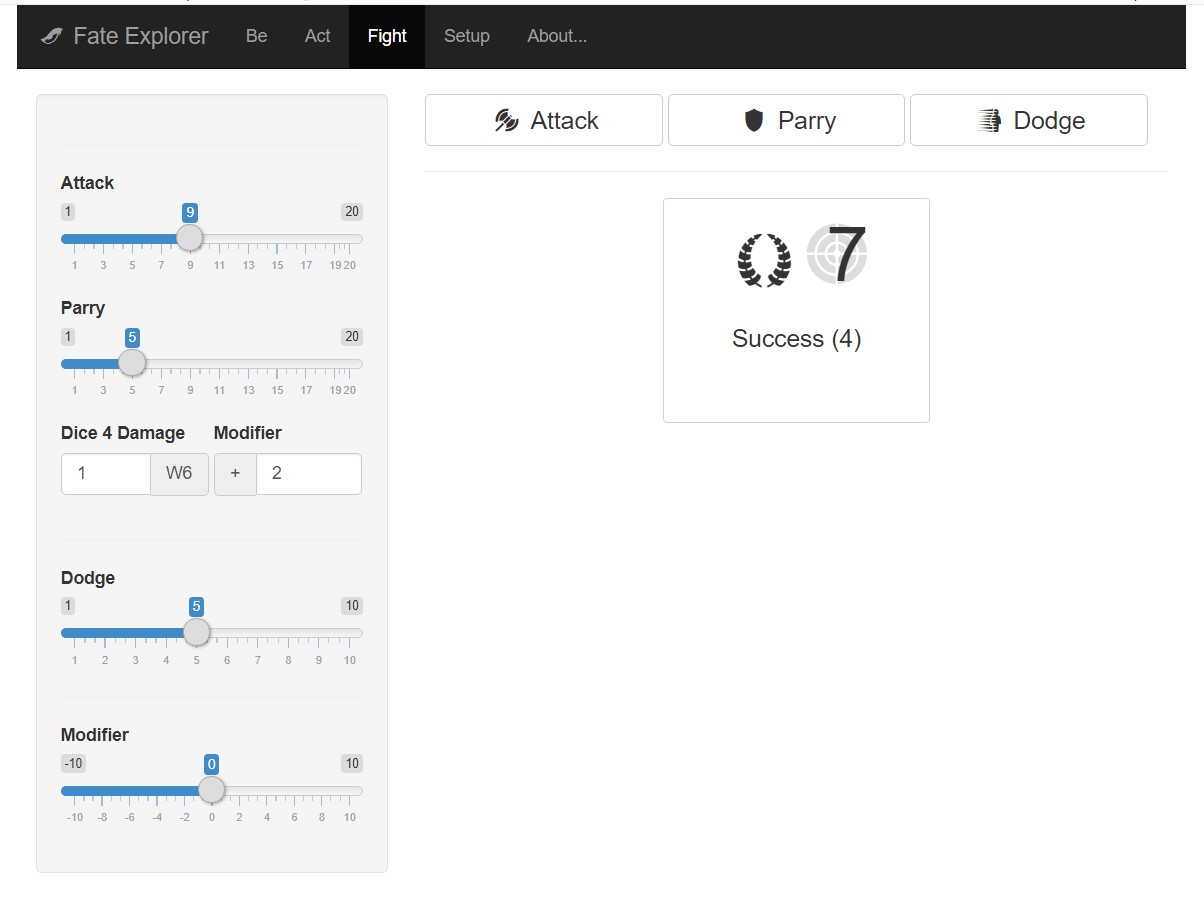
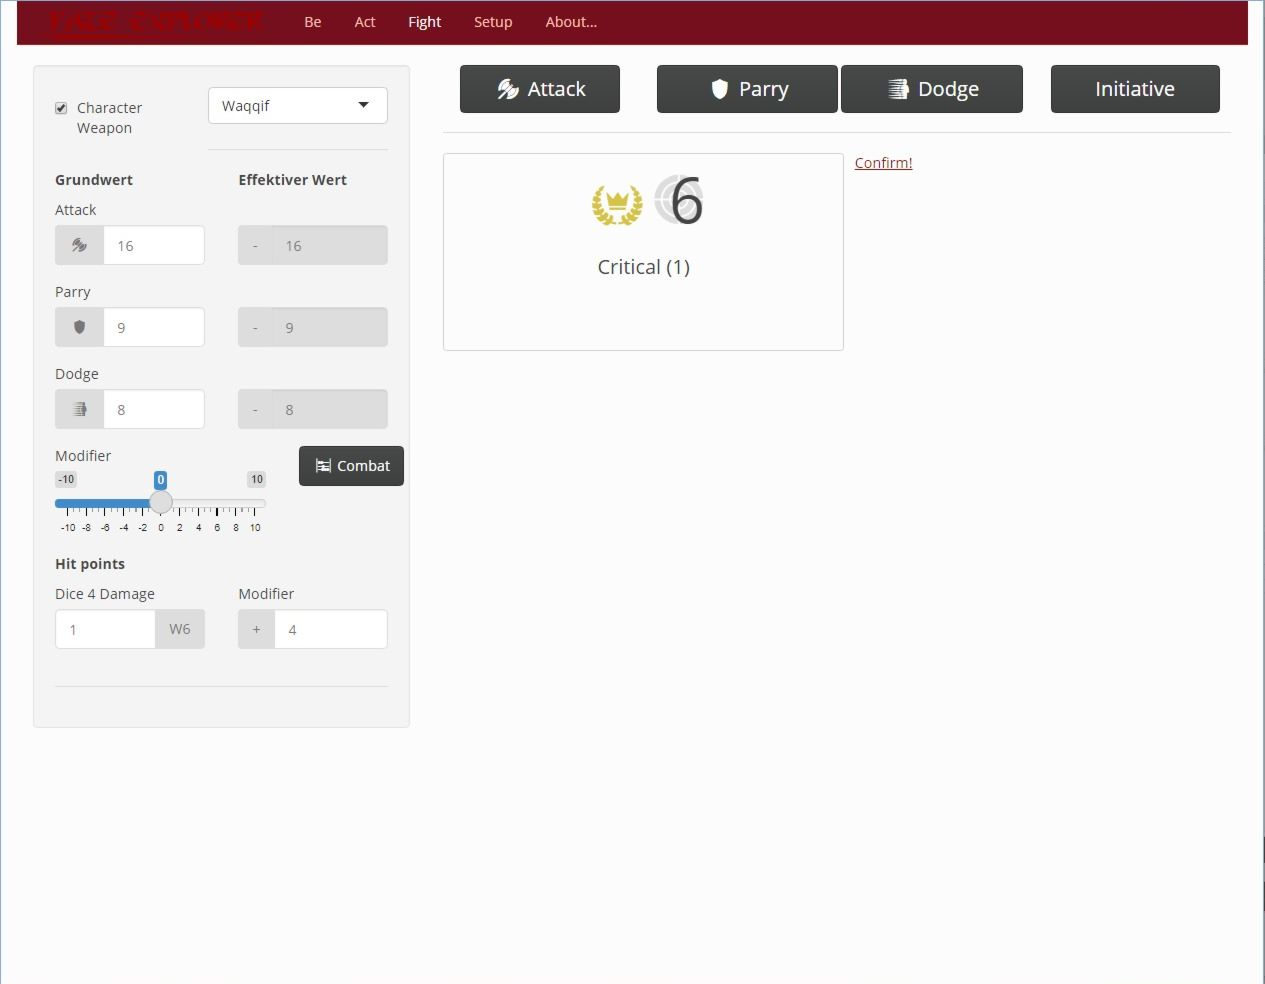
Readme is almost ready for release 2 showing the "What's News"

diff --git a/README.md b/README.md
@@ -8,16 +8,19 @@ An interface to roll the dice based on the ["dark eye" rule system](https://ulis
 * Ability rolls
 * Skill rolls incl. routine checks for mundane, magical or blessed skills
 * Combat rolls
+  * *NEW* in version 2 FateExplorer can consider the combat situation like weapons range, movement, or visibility.
+  * *NEW* in version 2: initiative rolls
 * Import [Optolith character sheets](https://optolith.app/en/)
+  * *NEW* in version 2: FateExplorer can import user-defined weapons.
 * Display of probabilities for different results
 * Bilingual (English and German - can be changed in the code of the script)
 
 
 ## Screenshots
 
-![Image of the combat roll tab](documentation/fe_screenshot_combat.jpg)
+![Image of the skill roll tab](documentation/fe_screenshot_skill.jpg)
 
-![Image of the skill roll tab](documentation/fe_screenshot_magic.jpg)
+![Image of the combat roll tab](documentation/fe_screenshot_combat.jpg)
 
 
 
@@ -26,4 +29,4 @@ An interface to roll the dice based on the ["dark eye" rule system](https://ulis
 * Users set the modifiers manually in the UI of the app and roll the dice. The character sheet import does not support special abilities, states, conditions, etc. 
 * Language can only be changed in the source code of the script.
 * FE is still ignorant of some very pecial rules for weapons; e.g. rolling a 19 with an improvised weapon is actually a botch but FE is not aware of that.
-* FE does not know rules that are specific for an individual weapon.
+* FE does not know rules that are specific for a weapon.
